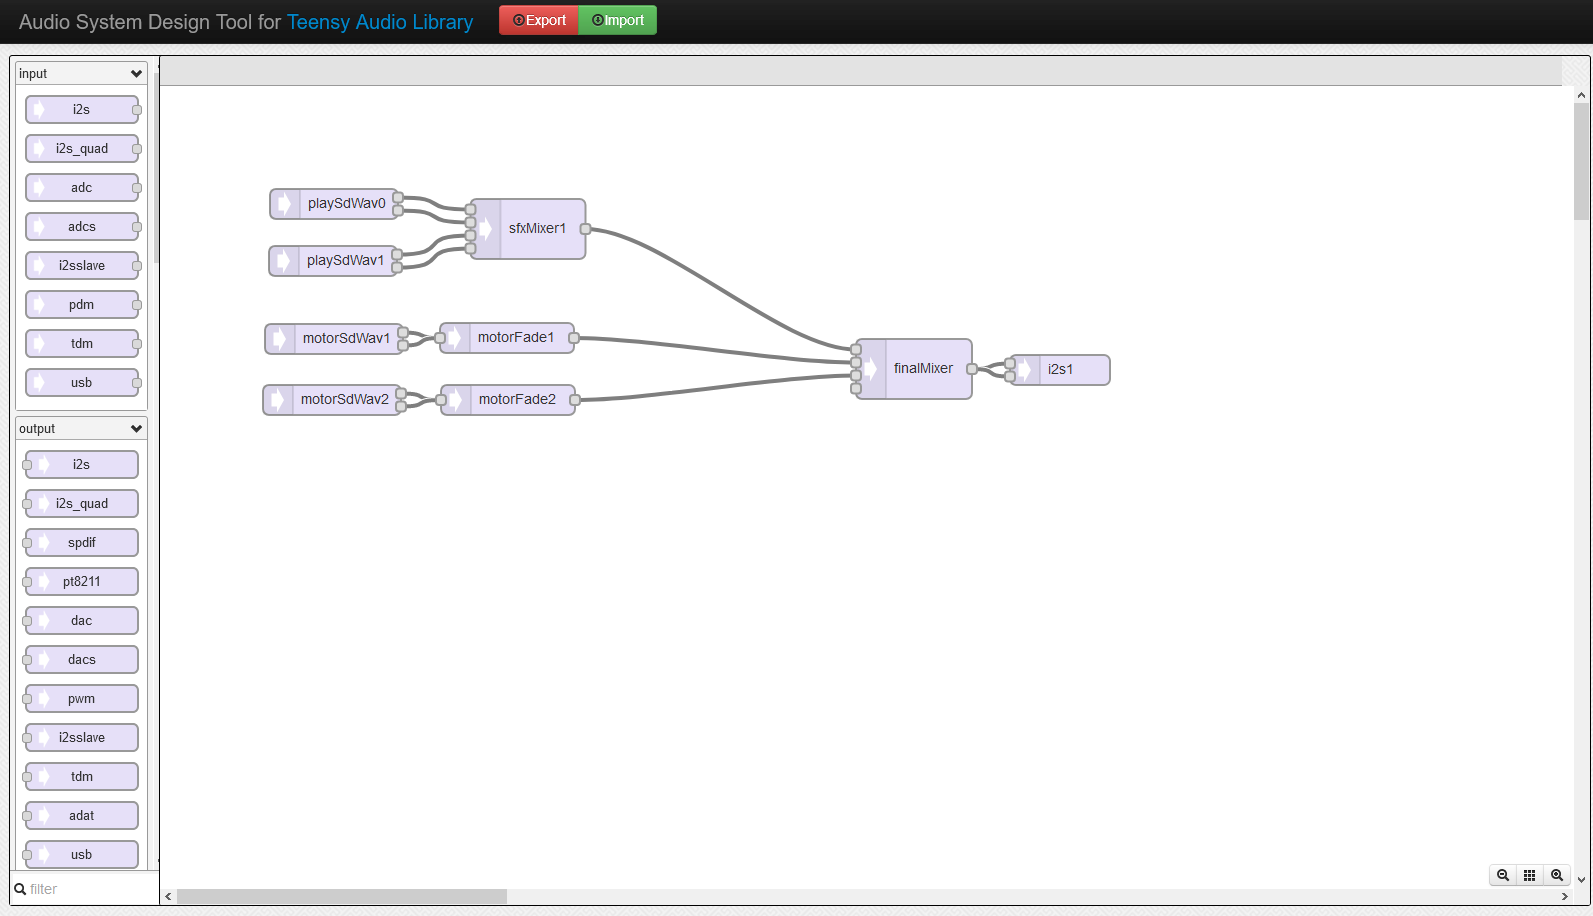
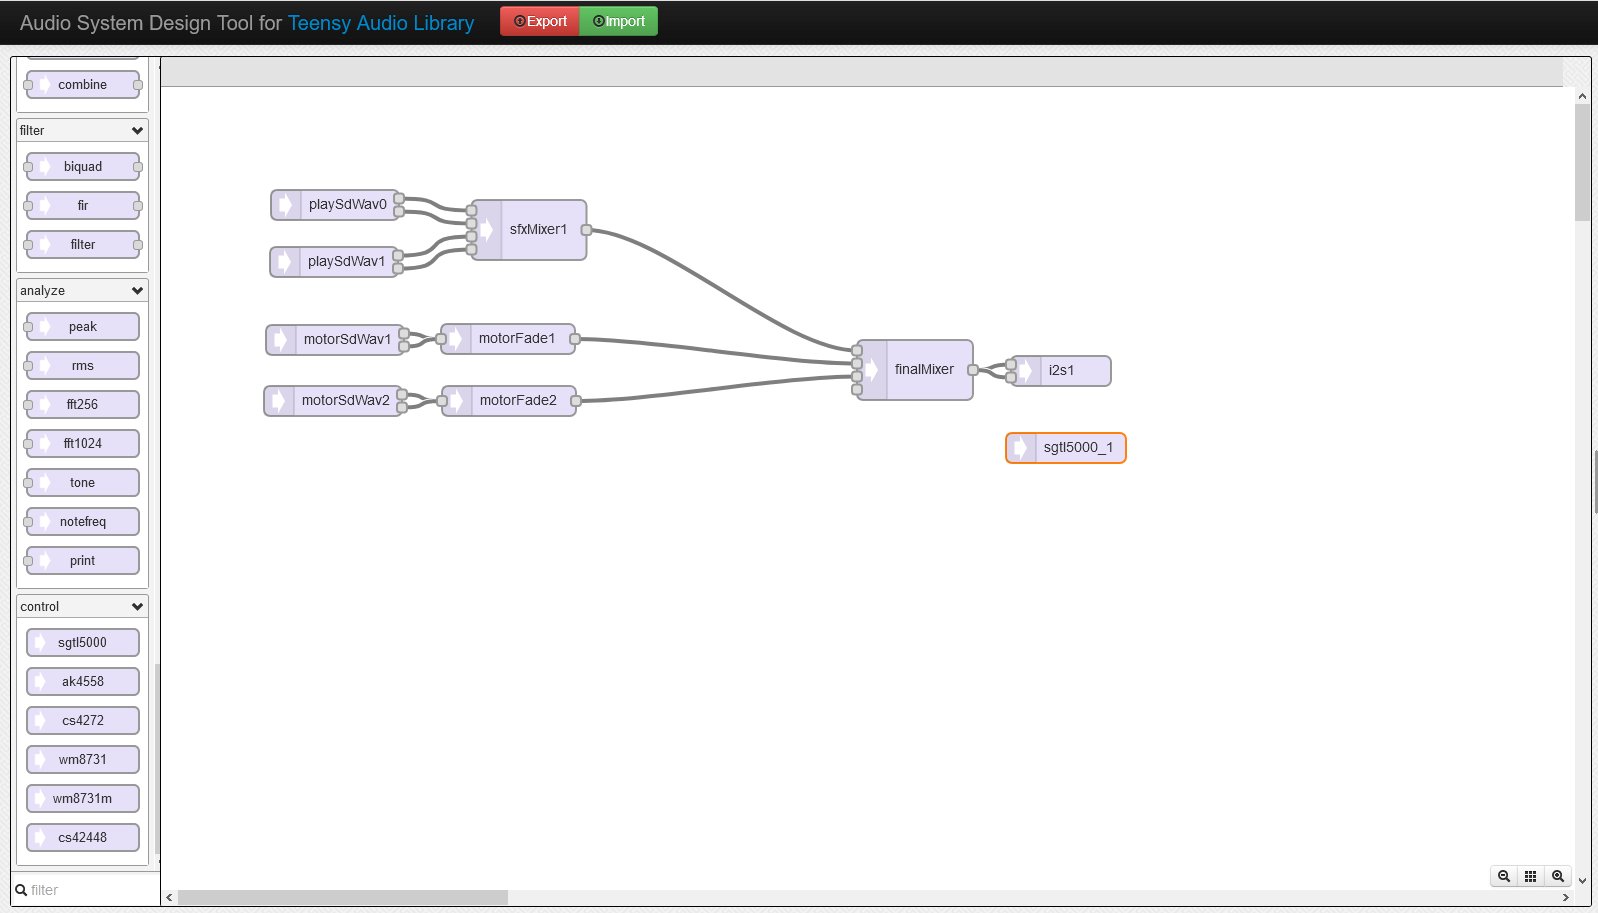
cp

diff --git a/PedalPlaneAvionics/motor.cpp b/PedalPlaneAvionics/motor.cpp
@@ -35,14 +35,20 @@ void Motor::start(bool viaStater)
     Log.trace(F("Motor::start\n"));
 
     //already running - should it restart? naw
-    if (state == stopped || (state == fading && nextStateAfterFade == stopped))
-    {
+    if (state == stopped || (state == fading && nextStateAfterFade == stopped)) {
         currentChannel->sdWav.play("starter.wav");
         currentChannel->timeStarted = millis();
         currentChannel->loop = viaStarter;
         state = starter;
         shouldStop = false;
     }
+}
+
+void Motor::stopStarter()
+{
+    if (state==starter) {
+        changeFromStarterToStarting();
+    } 
 }
 
 void Motor::stop()
@@ -53,6 +59,7 @@ void Motor::stop()
 
 void Motor::fadeTo( const char *fileName, float gain, bool loop,  State nextState)
 {
+    Log.trace(F("fadeTo(%s, .., %b, %d)\n"), fileName, loop, nextState);
 
     // not worrying if the current sound is less than FADE_TIME_MS to the end 
     // if it is, then it will stop a bit short while the new sound fades in
@@ -75,28 +82,31 @@ void Motor:changeFromStarterToStarting()
     currentChannel->sdWav.play("starting.wav");
     currentChannel->timeStarted = millis();
     currentChannel->loop = false;
+    Log.trace("starter->starting\n");
 }
 
 
 void Motor::update()
 {
-    if ((state != fading) && shouldStop)
-    {
+    if ((state != fading) && shouldStop) {
         fadeTo("stop.wav", 1.0, false, stopped);
     }
 
-    switch (state)
-    {
+    switch (state) {
+
         case fading:
+            // fading starts fade out on old, in on new
+            // once new begins playing, transitions to the next state
+            // so could be in the new state while the volume is 
+            // ramping up
+
             // stop original channel? (which is now on nextChannel)
             if ((millis() >= nextChannel->timeStarted + FADE_TIME_MS) ||
-                !nextChannel->sdWav.is_playing())
-            {
+                !nextChannel->sdWav.isPlaying()) {
                 nextChannel->sdWav.stop();
             }
             // time to transition to new state?
-            if (soundStartDelayHasPassed() || currentChannel->isPlaying())
-            {
+            if (soundStartDelayHasPassed() || currentChannelIsPlaying()) {
                 state = nextStateAfterFade;
             }
             break;
@@ -107,37 +117,35 @@ void Motor::update()
                                  
 
         case starter:
-            if (soundStartDelayHasPassed() && !currentChannelIsPlaying())
-            { 
+            if (soundStartDelayHasPassed() && !currentChannelIsPlaying()) { 
                 // sound started to play and has stopped
-                if (currentChannel->loop)
-                {
+                if (currentChannel->loop) {
                     currentChannel->sdWav.play("starter.wav");
                     currentChannel->timeStarted = millis();
                 }
-                else
-                {
+                else {
                     changeFromStarterToStarting();
                 }
             }
             break;
 
+
         case starting:
-            if (soundStartDelayHasPassed() && !currentChannelIsPlaying())
-            {
+            if (soundStartDelayHasPassed() && !currentChannelIsPlaying()) {
                 fadeTo("idle.wav", idleGain, true, idle); 
             }
+            break;
             
 
         case idle:
-            if (soundStartDelayHasPassed() && !currentChannelIsPlaying())
-            {
+            if (soundStartDelayHasPassed() && !currentChannelIsPlaying()) {
                 currentChannel->sdWav.play("idle.wav");
                 currentChannel->timeStarted = millis();
 
                 // TODO add code for transition to running - maybe time or movment?
             }
             break;
+    }
 }
 
 void Motor::onEvent(int event, void *param)
@@ -157,28 +165,8 @@ void Motor::onEvent(int event, void *param)
             break;
 
         case MOTOR_STARTER_STOP:
-            if (state==starter)
-            {
-                changeFromStarterToStarting();
-            }
+            stopStarter();
             break;
     }
 } 
 
-void Motor::setStartGain(float gain)
-{
-    this->startGain=gain;
-    if (state==starting)
-    {
-        theSoundManager->setGain(sound_handle, gain);
-    }
-}
-
-void Motor::setRunGain(float gain)
-{
-    this->runGain=gain;
-    if (state==running)
-    {
-        theSoundManager->setGain(sound_handle, gain);
-    }
-}

diff --git a/PedalPlaneAvionics/motor.h b/PedalPlaneAvionics/motor.h
@@ -21,14 +21,10 @@ class Motor
         // until MOTOR_STARTER_STOP event received
         // otherwise will run the start sound once and transition
         // to starting sound
+        void stopStarter();
         
         void stop();
-
         void onEvent(int event, void *param);
-        void setStartGain(float gain);
-        void setIdleGain(float gain);
-        void setRunGain(float gain);
-
         void update();
 
     protected:
@@ -38,9 +34,7 @@ class Motor
             starter,
             starting,
             idle,
-            transitioning_to_run,
             running,
-            transitioning_to_stopped,
             fading
 
         };
@@ -53,7 +47,7 @@ class Motor
 
         typedef struct {
             AudioPlaySdWav sdWav;
-            AudioEffectFase fader;
+            AudioEffectFade fader;
             bool loop;
             uint32_t timeStarted;
         } SoundChannel;
@@ -82,7 +76,7 @@ class Motor
 
         inline bool currentChannelIsPlaying()
         {
-            currentChannel->sdWav.isPlaying();
+            return currentChannel->sdWav.isPlaying();
         }
 
         void changeFromStarterToStarting();

diff --git a/PedalPlaneAvionics/sound_manager.cpp b/PedalPlaneAvionics/sound_manager.cpp
@@ -32,6 +32,7 @@ AudioConnection          patchCord10(motorFade2, 0, finalMixer, 2);
 AudioConnection          patchCord11(sfxMixer1, 0, finalMixer, 0);
 AudioConnection          patchCord12(finalMixer, 0, i2s1, 0);
 AudioConnection          patchCord13(finalMixer, 0, i2s1, 1);
+AudioControlSGTL5000     sgtl5000_1;     //xy=905,361
 // GUItool: end automatically generated code
 
 
@@ -156,8 +157,8 @@ void SoundManager::setGain(void *handle, float gain)
     if (is_playing(handle))
     {
         Log.trace(F("SM.setGain(%d, %F)\n"), HANDLE_TO_INDEX(handle), gain);
-        sfxMixer1.gain(min_priority_channel*2, gain);
-        sfxMixer1.gain(min_priority_channel*2+1, gain);
+        sfxMixer1.gain(HANDLE_TO_INDEX(handle)*2, gain);
+        sfxMixer1.gain(HANDLE_TO_INDEX(handle)*2+1, gain);
     }
 }
 

diff --git a/PedalPlaneAvionics/interpreter.cpp b/PedalPlaneAvionics/interpreter.cpp
@@ -53,10 +53,7 @@ void set_gain()
         if (gain_str)
         {
             float gain = atof(gain_str);
-            if (strcmp(obj, "mos")==0) { motor->setStartGain(gain); };
-            if (strcmp(obj, "mor")==0) { motor->setRunGain(gain); };
-            if (strcmp(obj, "mg")==0) { machineguns->setGain(gain); };
-            if (strcmp(obj, "bd")==0) { bomb_drop->setGain(gain); };
+            //if (strcmp(obj, "mos")==0) { motor->setStartGain(gain); };
             Log.trace(F("set_gain: id:%s gain: %s %d\n"), obj, gain_str, (int)gain*100);
         }
     }
